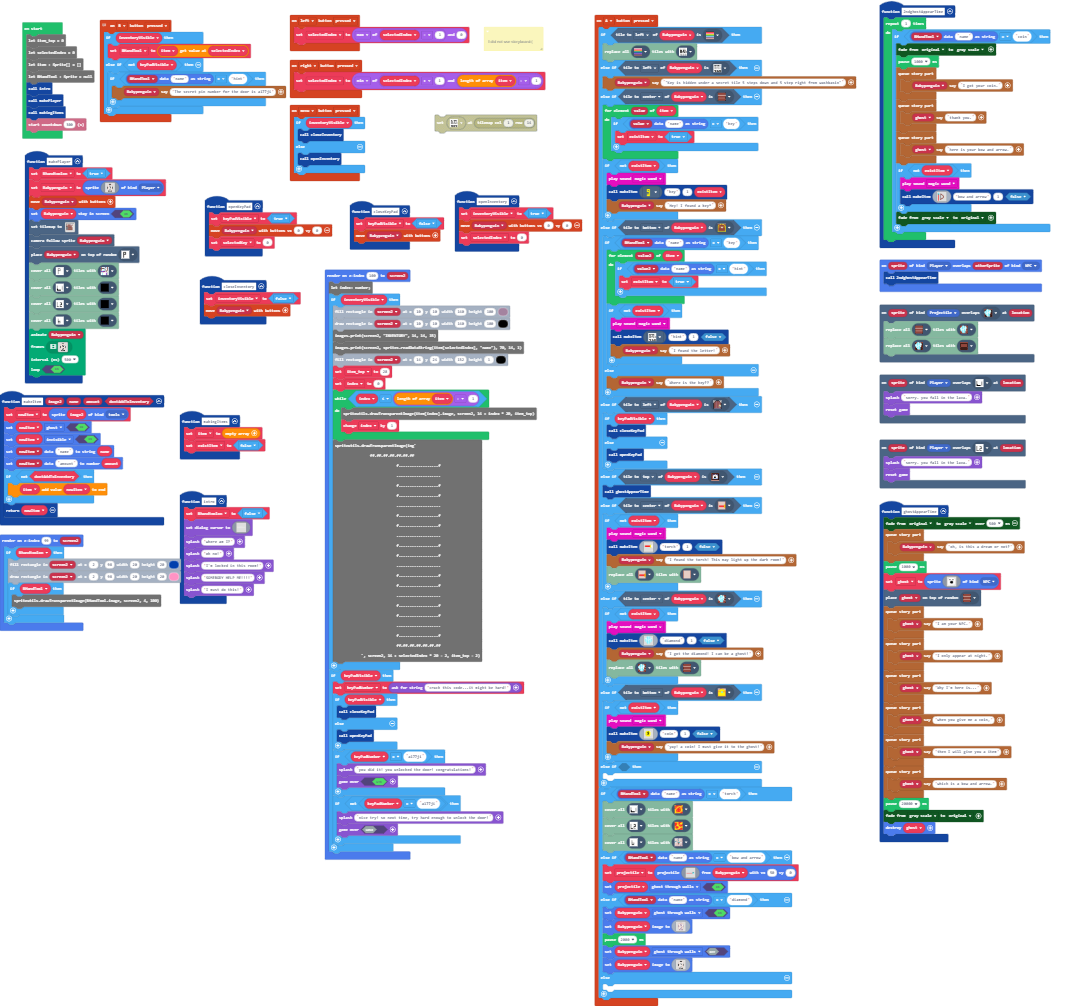
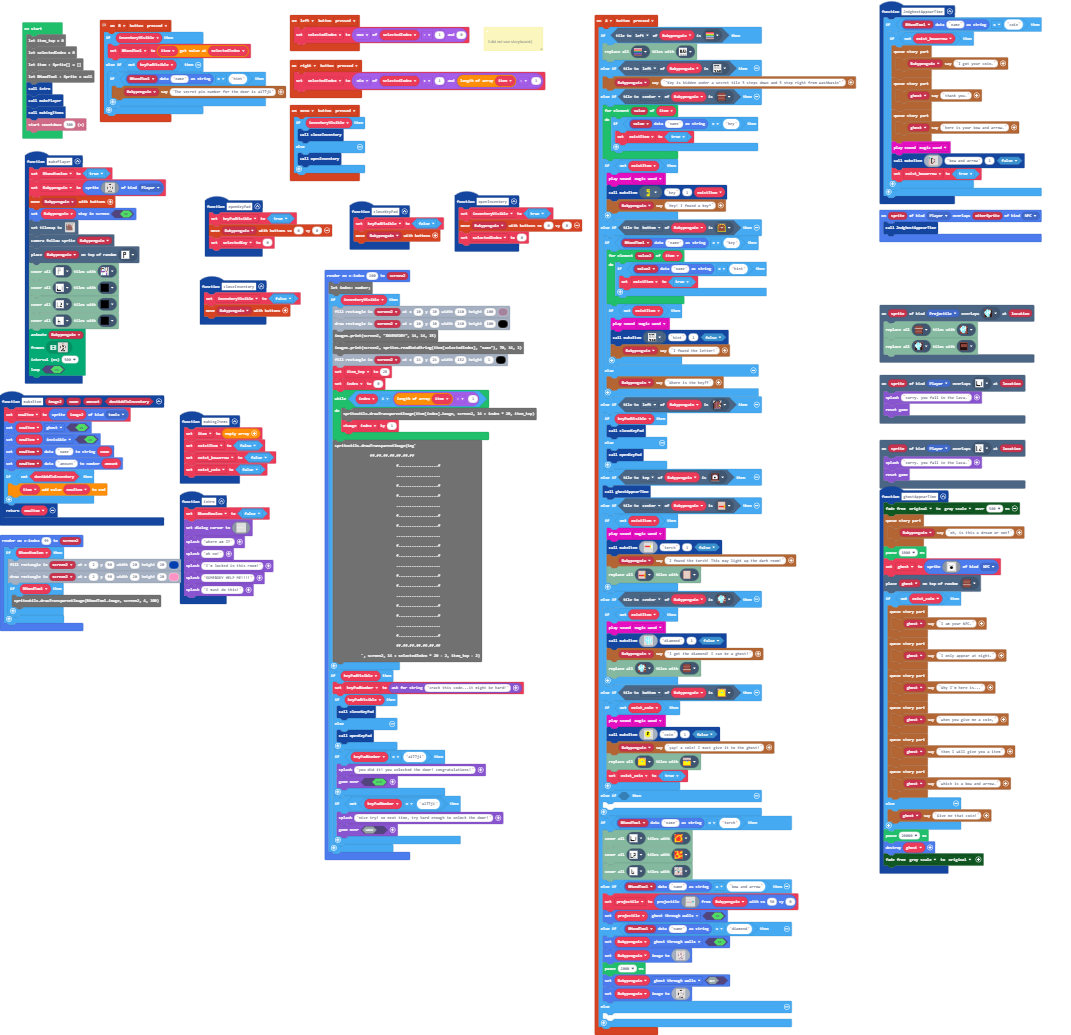
Update main.blocks, main.ts, tilemap.g.jres, tilemap.g.ts

diff --git a/main.ts b/main.ts
@@ -128,7 +128,7 @@ controller.A.onEvent(ControllerButtonEvent.Pressed, function () {
             tiles.replaceAllTiles(assets.tile`myTile53`, assets.tile`myTile`)
         }
     } else if (Babypenguin.tileKindAt(TileDirection.Bottom, assets.tile`myTile40`)) {
-        if (!(existItem)) {
+        if (!(exist_coin)) {
             music.magicWand.play()
             makeItem(img`
                 . . . . . . . . . . . . . . . . 
@@ -149,6 +149,8 @@ controller.A.onEvent(ControllerButtonEvent.Pressed, function () {
                 . . . . . . . . . . . . . . . . 
                 `, "coin", 1, false)
             story.spriteSayText(Babypenguin, "yay! a coin! I must give it to the ghost!")
+            tiles.replaceAllTiles(assets.tile`myTile40`, assets.tile`myTile60`)
+            exist_coin = true
         }
     } else if (false) {
     	
@@ -235,6 +237,8 @@ function makeItem (image2: Image, name: string, amount: number, dontAddToInvento
 function makingItems () {
     item = []
     existItem = false
+    exist_bowarrow = false
+    exist_coin = false
 }
 function intro () {
     Bhandtoolon = false
@@ -346,10 +350,8 @@ scene.onOverlapTile(SpriteKind.Player, assets.tile`myTile43`, function (sprite, 
     game.reset()
 })
 function _2ndghostAppearTime () {
-    for (let index2 = 0; index2 < 1; index2++) {
-        if (sprites.readDataString(BHandTool, "name") == "coin") {
-            color.startFade(color.originalPalette, color.GrayScale)
-            pause(1000)
+    if (sprites.readDataString(BHandTool, "name") == "coin") {
+        if (!(exist_bowarrow)) {
             story.queueStoryPart(function () {
                 story.spriteSayText(Babypenguin, "I got your coin.")
             })
@@ -359,28 +361,26 @@ function _2ndghostAppearTime () {
             story.queueStoryPart(function () {
                 story.spriteSayText(ghost, "here is your bow and arrow.")
             })
-            if (!(existItem)) {
-                music.magicWand.play()
-                makeItem(img`
-                    . 9 . . . . . . . . . . . . . . 
-                    6 9 9 . . . . . . . . . . . . . 
-                    6 9 9 . e e e . . . . . . . . . 
-                    6 6 9 . f . e e . . . . . . . . 
-                    . 2 . . f . . e e e . . . . . . 
-                    . 2 . . f . . . . e e . . . . . 
-                    . 2 . . f . . . . . e e . . . . 
-                    . 2 . . f . . . . . . e . . . . 
-                    . 2 . . f . . . . . . e . . . . 
-                    . 2 . . f . . . . . e e . . . . 
-                    . 2 . . f . . . . e e . . . . . 
-                    . 2 . . f . . e e e . . . . . . 
-                    . 2 . . f . e e . . . . . . . . 
-                    . 2 . . e e e . . . . . . . . . 
-                    . 2 . . . . . . . . . . . . . . 
-                    . 2 . . . . . . . . . . . . . . 
-                    `, "bow and arrow", 1, false)
-            }
-            color.startFade(color.GrayScale, color.originalPalette)
+            music.magicWand.play()
+            makeItem(img`
+                . 9 . . . . . . . . . . . . . . 
+                6 9 9 . . . . . . . . . . . . . 
+                6 9 9 . e e e . . . . . . . . . 
+                6 6 9 . f . e e . . . . . . . . 
+                . 2 . . f . . e e e . . . . . . 
+                . 2 . . f . . . . e e . . . . . 
+                . 2 . . f . . . . . e e . . . . 
+                . 2 . . f . . . . . . e . . . . 
+                . 2 . . f . . . . . . e . . . . 
+                . 2 . . f . . . . . e e . . . . 
+                . 2 . . f . . . . e e . . . . . 
+                . 2 . . f . . e e e . . . . . . 
+                . 2 . . f . e e . . . . . . . . 
+                . 2 . . e e e . . . . . . . . . 
+                . 2 . . . . . . . . . . . . . . 
+                . 2 . . . . . . . . . . . . . . 
+                `, "bow and arrow", 1, false)
+            exist_bowarrow = true
         }
     }
 }
@@ -470,27 +470,31 @@ function ghostAppearTime () {
         . 1 . 1 . 1 . 1 . 1 . 1 . . 1 . 
         `, SpriteKind.NPC)
     tiles.placeOnRandomTile(ghost, assets.tile`myTile26`)
-    story.queueStoryPart(function () {
-        story.spriteSayText(ghost, "I am your NPC.")
-    })
-    story.queueStoryPart(function () {
-        story.spriteSayText(ghost, "I only appear at night.")
-    })
-    story.queueStoryPart(function () {
-        story.spriteSayText(ghost, "Why I'm here is...")
-    })
-    story.queueStoryPart(function () {
-        story.spriteSayText(ghost, "when you give me a coin,")
-    })
-    story.queueStoryPart(function () {
-        story.spriteSayText(ghost, "then I will give you a item")
-    })
-    story.queueStoryPart(function () {
-        story.spriteSayText(ghost, "which is a bow and arrow.")
-    })
+    if (!(exist_coin)) {
+        story.queueStoryPart(function () {
+            story.spriteSayText(ghost, "I am your NPC.")
+        })
+        story.queueStoryPart(function () {
+            story.spriteSayText(ghost, "I only appear at night.")
+        })
+        story.queueStoryPart(function () {
+            story.spriteSayText(ghost, "Why I'm here is...")
+        })
+        story.queueStoryPart(function () {
+            story.spriteSayText(ghost, "when you give me a coin,")
+        })
+        story.queueStoryPart(function () {
+            story.spriteSayText(ghost, "then I will give you a item")
+        })
+        story.queueStoryPart(function () {
+            story.spriteSayText(ghost, "which is a bow and arrow.")
+        })
+    } else {
+        story.spriteSayText(ghost, "Give me that coin!")
+    }
     pause(20000)
-    color.startFade(color.GrayScale, color.originalPalette)
     ghost.destroy()
+    color.startFade(color.GrayScale, color.originalPalette)
 }
 function openInventory () {
     inventoryVisible = true
@@ -509,8 +513,10 @@ scene.onOverlapTile(SpriteKind.Player, assets.tile`myTile41`, function (sprite, 
 let selectedKey = 0
 let keyPadNumber = ""
 let ghost: Sprite = null
+let exist_bowarrow = false
 let newItem: Sprite = null
 let projectile: Sprite = null
+let exist_coin = false
 let existItem = false
 let Bhandtoolon = false
 let Babypenguin: Sprite = null

diff --git a/tilemap.g.ts b/tilemap.g.ts
@@ -124,6 +124,8 @@ namespace myTiles {
     export const tile35 = image.ofBuffer(hex``);
     //% fixedInstance jres blockIdentity=images._tile
     export const tile61 = image.ofBuffer(hex``);
+    //% fixedInstance jres blockIdentity=images._tile
+    export const tile62 = image.ofBuffer(hex``);
 
     helpers._registerFactory("tilemap", function(name: string) {
         switch(helpers.stringTrim(name)) {
@@ -248,7 +250,7 @@ namespace myTiles {
 .222....2.2222....2...
 .222....2....2..222...
 .222....2....2..222...
-`, [myTiles.transparency16,myTiles.tile1,myTiles.tile4,myTiles.tile5,myTiles.tile2,myTiles.tile3,myTiles.tile6,myTiles.tile7,myTiles.tile8,myTiles.tile9,myTiles.tile10,myTiles.tile11,myTiles.tile12,myTiles.tile13,myTiles.tile14,myTiles.tile15,myTiles.tile16,myTiles.tile17,myTiles.tile18,myTiles.tile19,myTiles.tile21,myTiles.tile22,myTiles.tile23,myTiles.tile24,myTiles.tile25,myTiles.tile28,myTiles.tile32,myTiles.tile35,myTiles.tile36,myTiles.tile42,myTiles.tile43,myTiles.tile45,myTiles.tile46,myTiles.tile50,myTiles.tile51,myTiles.tile54,myTiles.tile29,myTiles.tile33,myTiles.tile41,sprites.builtin.brick,myTiles.tile52,myTiles.tile56,myTiles.tile57,myTiles.tile59,myTiles.tile60,myTiles.tile61], TileScale.Sixteen);
+`, [myTiles.transparency16,myTiles.tile1,myTiles.tile4,myTiles.tile5,myTiles.tile2,myTiles.tile3,myTiles.tile6,myTiles.tile7,myTiles.tile8,myTiles.tile9,myTiles.tile10,myTiles.tile11,myTiles.tile12,myTiles.tile13,myTiles.tile14,myTiles.tile15,myTiles.tile16,myTiles.tile17,myTiles.tile18,myTiles.tile19,myTiles.tile21,myTiles.tile22,myTiles.tile23,myTiles.tile24,myTiles.tile25,myTiles.tile28,myTiles.tile32,myTiles.tile35,myTiles.tile36,myTiles.tile42,myTiles.tile43,myTiles.tile45,myTiles.tile46,myTiles.tile50,myTiles.tile51,myTiles.tile54,myTiles.tile29,myTiles.tile33,myTiles.tile41,sprites.builtin.brick,myTiles.tile52,myTiles.tile56,myTiles.tile57,myTiles.tile59,myTiles.tile60,myTiles.tile61,myTiles.tile62], TileScale.Sixteen);
         }
         return null;
     })
@@ -378,6 +380,8 @@ namespace myTiles {
             case "tile35":return tile35;
             case "myTile59":
             case "tile61":return tile61;
+            case "myTile60":
+            case "tile62":return tile62;
         }
         return null;
     })
